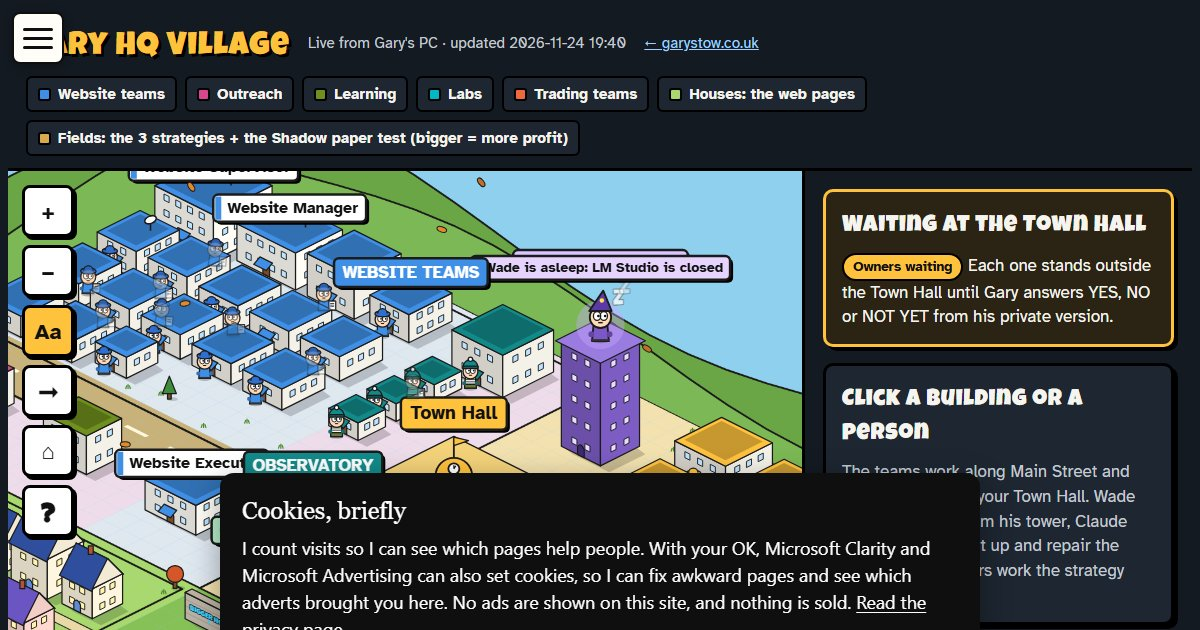
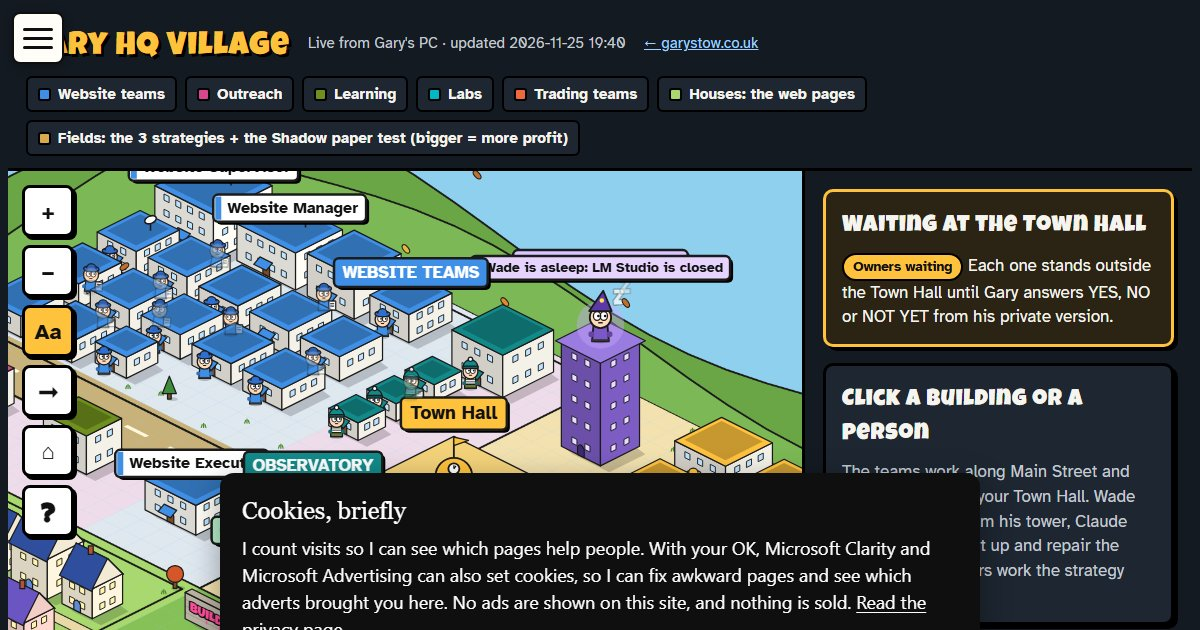
Village: refresh the public data (2026-11-25 19:40)

diff --git a/agents/map/index.html b/agents/map/index.html
@@ -114,7 +114,7 @@ section.map-sky{background:#070a12;color:#f4f6fb;padding:2rem 4rem 2.5rem;border
   <div class="map-stat"><b>79</b><span>Agents running</span></div>
   <div class="map-stat"><b>135</b><span>Hand-offs between them</span></div>
   <div class="map-stat"><b>4</b><span>Teams pulling toward 2 goals</span></div>
-  <div class="map-stat ok"><b>0</b><span>Problems right now: all green</span></div>
+  <div class="map-stat bad"><b>5</b><span>Problems right now</span></div>
 </div>
 
 <!-- THE SPHERE -->
@@ -179,7 +179,7 @@ section.map-sky{background:#070a12;color:#f4f6fb;padding:2rem 4rem 2.5rem;border
     <span class="section-num">02</span>
     <h2>Every agent on the map</h2>
   </div>
-  <p style="margin-bottom:1.5rem;max-width:65ch">Last checked 24 Nov 2026, 19:35. This public copy refreshes every evening.</p>
+  <p style="margin-bottom:1.5rem;max-width:65ch">Last checked 25 Nov 2026, 19:35. This public copy refreshes every evening.</p>
   <details open>
     <summary>The two goals (2)</summary>
     <dl>
